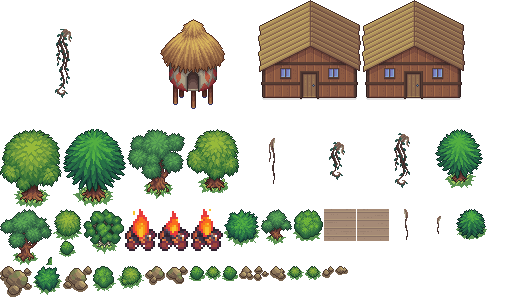
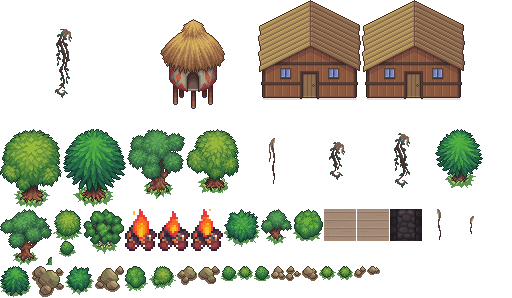
Rebuild the Altaverde ruins in stone
The ruins are the jungle's story payload — the processing facility, the redacted
survey, the archive — and they were 961 floor tiles and 207 wall tiles drawn as
grey rectangles with stroked grid lines.

Walls now use masonry from the dungeon pack, keeping the moss the painted
version had, because Altaverde built this and the jungle has been taking it back
ever since. The floor does not: every floor in that pack is an autotiled panel,
and the two crops that measured seamless still tiled with a visible repeat — one
a bordered panel that stamped a grid, the other a grate motif that repeated
every tile. So ruin flooring reuses DHGround's road surface, already
wrap-seamless and already proven, darkened and cooled because these rooms have
no roof left.

Fixes a bug this change surfaced. The overlay pass belongs to renderJungleZone,
but the ruins and the deep jungle reuse drawJGTile through their own renderers,
which return before it ever runs. Object tiles there were deferring a sprite to
a pass that never came, so the ruins' thirty rock tiles rendered as bare forest
floor: bright green squares across a stone hall. Where the overlay will not run
the sprite is drawn inline instead, losing the overhang — which matters for a
tree and not for a rock.

The first attempt at that fix drew the sprites but kept laying forest floor
underneath them, so the green squares stayed and merely acquired rocks. The base
tile now follows the room.
[…]

Changed region(s): [[0.0, 0.8758, 0.75, 0.9966], [0.75, 0.6946, 0.9688, 0.8154]]

diff --git a/index.html b/index.html
@@ -34094,6 +34094,27 @@ if (typeof _tryCourtEmissaryEncounter === 'undefined') {
    a tree rooted just off-screen still has canopy inside it.                    */
 const JG_OVERLAY_BLEED = 4;
 
+/* The overlay pass belongs to renderJungleZone. The Altaverde ruins and the
+   deep jungle reuse drawJGTile through their own renderers, which return before
+   it ever runs — so an object tile there cannot defer its sprite to a second
+   pass or it renders as bare ground. (It did: rock tiles in the ruins came out
+   as bright green squares of forest floor.) Where the overlay will not run, the
+   sprite is drawn inline instead: it loses the overhang, which matters for a
+   tree and not for a rock. */
+function _jgOverlayRuns() {
+  return !!(gameState.inJungle && !gameState.inRuins && !gameState.inDeepJungle);
+}
+
+// Ground under an object tile, then either defer to the overlay or draw now.
+// The base has to match the room: laying forest floor under a rock inside the
+// ruins put bright green squares across a stone hall.
+function _jgObjectTile(ctx, group, sx, sy, tx, ty, T) {
+  if (!(window.DHJungle && DHJungle.ready(group))) return false;
+  drawJGTile(gameState.inRuins ? JG.FLOOR : JG.JUNGLE_FLOOR, sx, sy, tx, ty);
+  if (!_jgOverlayRuns()) DHJungle.draw(ctx, group, sx, sy, tx, ty, T);
+  return true;
+}
+
 // Applied identically to every jungle ground tile — see note above.
 const JG_GROUND_TINT = 'rgba(30,96,30,0.42)';
 function _jgTintGround(ctx, sx, sy, T) {
@@ -34283,7 +34304,7 @@ window.drawJGTile = function drawJGTile(t, sx, sy, tx, ty) {
     case JG.TREE: {
       // Real art available: lay the forest floor and let drawJungleOverlay put
       // the tree on top, so the canopy can overhang the tiles behind it.
-      if (window.DHJungle && DHJungle.ready('treeMed')) { drawJGTile(JG.JUNGLE_FLOOR, sx, sy, tx, ty); break; }
+      if (_jgObjectTile(ctx, 'treeMed', sx, sy, tx, ty, T)) break;
       // Ground shadow
       ctx.fillStyle = '#0e2208'; ctx.fillRect(sx, sy, T, T);
       // Trunk
@@ -34302,7 +34323,7 @@ window.drawJGTile = function drawJGTile(t, sx, sy, tx, ty) {
       break;
     }
     case JG.DENSE_TREE: {
-      if (window.DHJungle && DHJungle.ready('treeLarge')) { drawJGTile(JG.JUNGLE_FLOOR, sx, sy, tx, ty); break; }
+      if (_jgObjectTile(ctx, 'treeLarge', sx, sy, tx, ty, T)) break;
       ctx.fillStyle = '#060e04'; ctx.fillRect(sx, sy, T, T);
       // Impenetrable canopy — overlapping layers
       ctx.fillStyle = '#081408';
@@ -34319,7 +34340,7 @@ window.drawJGTile = function drawJGTile(t, sx, sy, tx, ty) {
       break;
     }
     case JG.BUSH: {
-      if (window.DHJungle && DHJungle.ready('bush')) { drawJGTile(JG.JUNGLE_FLOOR, sx, sy, tx, ty); break; }
+      if (_jgObjectTile(ctx, 'bush', sx, sy, tx, ty, T)) break;
       ctx.fillStyle = '#162a10'; ctx.fillRect(sx, sy, T, T);
       ctx.fillStyle = '#1e4018';
       ctx.beginPath(); ctx.ellipse(sx+T/2, sy+T*0.55, 12, 9, 0, 0, Math.PI*2); ctx.fill();
@@ -34332,7 +34353,7 @@ window.drawJGTile = function drawJGTile(t, sx, sy, tx, ty) {
 
     // ── Structure tiles ────────────────────────────────────────────────────
     case JG.ROCK: {
-      if (window.DHJungle && DHJungle.ready('rock')) { drawJGTile(JG.JUNGLE_FLOOR, sx, sy, tx, ty); break; }
+      if (_jgObjectTile(ctx, 'rock', sx, sy, tx, ty, T)) break;
       ctx.fillStyle = '#2e2c28'; ctx.fillRect(sx, sy, T, T);
       // Rock face — irregular polygon suggestion
       ctx.fillStyle = '#3c3830';
@@ -34346,6 +34367,16 @@ window.drawJGTile = function drawJGTile(t, sx, sy, tx, ty) {
       break;
     }
     case JG.WALL: {
+      if (tx !== undefined && window.DHJungle && DHJungle.drawTile(ctx, 'ruinWall', sx, sy, tx, ty)) {
+        // Altaverde built this and the jungle has been taking it back ever
+        // since, so the masonry keeps the moss the painted version had.
+        const mh0 = ((tx * 1301 + ty * 503) & 0xFF) / 255;
+        if (mh0 < 0.45) {
+          ctx.fillStyle = 'rgba(30,70,22,0.30)';
+          ctx.fillRect(sx + 2, sy + T - 7, T - 6, 5);
+        }
+        break;
+      }
       // Ruins stone — block grid + decay
       ctx.fillStyle = '#1e1c18'; ctx.fillRect(sx, sy, T, T);
       // Stone blocks — 2×3 grid
@@ -34364,6 +34395,14 @@ window.drawJGTile = function drawJGTile(t, sx, sy, tx, ty) {
       break;
     }
     case JG.FLOOR: {
+      // The dungeon pack's floors are autotiled panels with no clean fill, so
+      // the ruin floor reuses the town's paving — already wrap-seamless, and
+      // stone is stone. Darkened, because these rooms have no roof left.
+      if (tx !== undefined && window.DHGround && DHGround.draw(ctx, 'road', sx, sy, tx, ty)) {
+        // Cool and dark: these rooms have no roof and the jungle keeps them wet.
+        ctx.fillStyle = 'rgba(14,20,20,0.62)'; ctx.fillRect(sx, sy, T, T);
+        break;
+      }
       ctx.fillStyle = '#2a2620'; ctx.fillRect(sx, sy, T, T);
       // Worn stone floor — subtle grid
       ctx.strokeStyle = 'rgba(50,45,35,0.5)'; ctx.lineWidth = 1;
@@ -34414,7 +34453,11 @@ window.drawJGTile = function drawJGTile(t, sx, sy, tx, ty) {
       break;
     }
     case JG.CAMPFIRE: {
-      if (window.DHJungle && DHJungle.ready('campfire')) { drawJGTile(JG.JUNGLE_FLOOR, sx, sy, tx, ty); break; }
+      if (window.DHJungle && DHJungle.ready('campfire')) {
+        drawJGTile(JG.JUNGLE_FLOOR, sx, sy, tx, ty);
+        if (!_jgOverlayRuns()) DHJungle.drawFrame(ctx, 'campfire', (Date.now() / 140) | 0, sx, sy, T);
+        break;
+      }
       ctx.fillStyle = '#2a2010'; ctx.fillRect(sx, sy, T, T);
       // Stone ring
       ctx.fillStyle = '#3c3428';

diff --git a/tools/build_jungle.py b/tools/build_jungle.py
@@ -78,7 +78,8 @@ def collect(args):
     """Resolve the map into { group: [Image, ...] }, in map order."""
     raw = json.loads(MAP.read_text())
     packs = {"herbalist": args.herbalist, "rocky": args.rocky,
-             "fishing": args.fishing, "greenforest": args.greenforest}
+             "fishing": args.fishing, "greenforest": args.greenforest,
+             "dungeon": args.dungeon}
     groups, problems = {}, []
 
     for sheet_name, spec in raw.get("sheets", {}).items():
@@ -199,6 +200,7 @@ def main():
     ap.add_argument("--rocky", help="Rocky tileset pack root")
     ap.add_argument("--fishing", help="Fishing Village pack root")
     ap.add_argument("--greenforest", help="Green Forest tileset pack root")
+    ap.add_argument("--dungeon", help="Top Down Dungeon tileset pack root")
     args = ap.parse_args()
 
     groups, problems = collect(args)

diff --git a/CREDITS.md b/CREDITS.md
@@ -87,6 +87,7 @@ became which group.
 | `liana` `hutRound` | Rocky Top Down Tileset Pixel Art for RPG | CraftPix |
 | `hut` `dock` | 2D Pixel Fishing Village Pack — Dock, Interior, Boats, NPCs | CraftPix |
 | `campfire` | Green Forest Top Down Pixel Art Tileset | CraftPix |
+| `ruinWall` | Top Down Dungeon Pixel Tileset for RPG and Roguelike Game | CraftPix |
 
 Jungle NPCs reuse actors already credited under Sprite art — no new sources.
 Kit is mapped to the same actor in the jungle as in the hobo camp on purpose:
